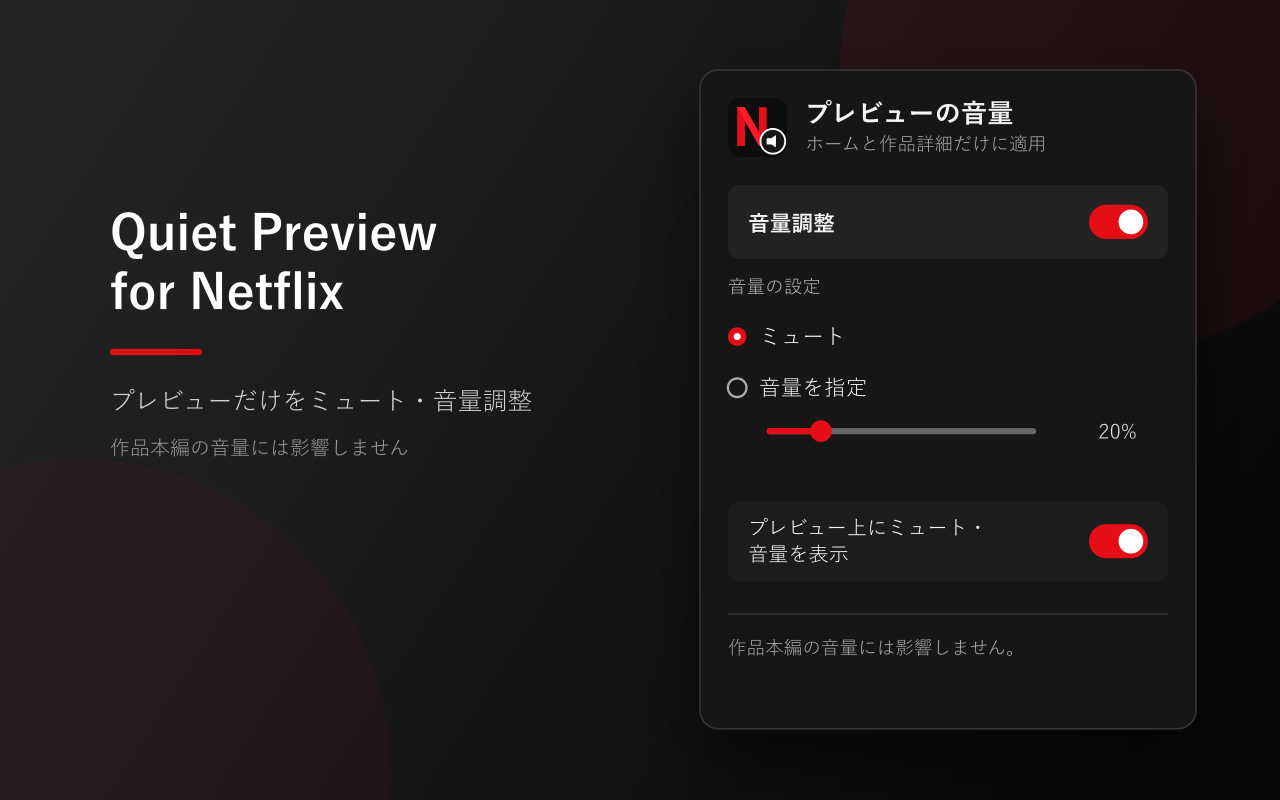
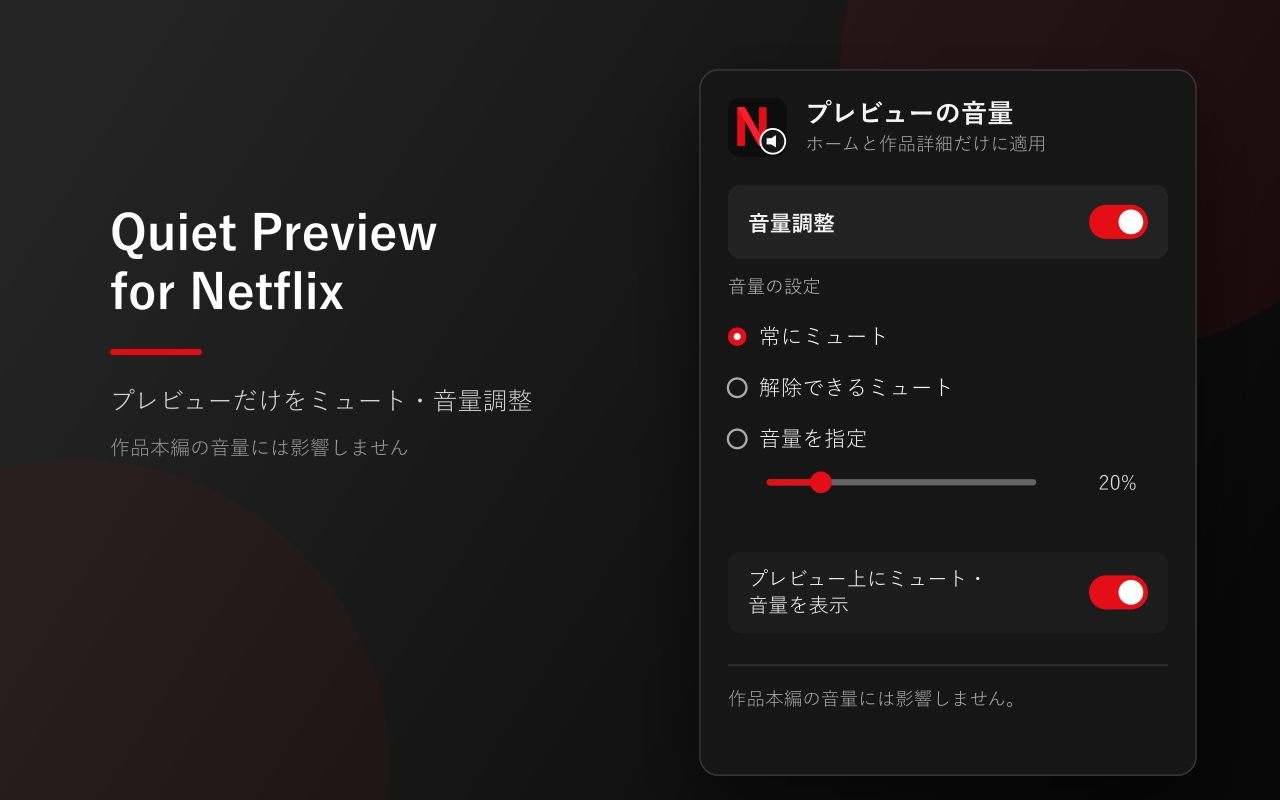
Add initial-only mute mode

diff --git a/content.js b/content.js
@@ -36,6 +36,7 @@
   ].join(",");
   const originals = new Map();
   const pendingMediaEnforcement = new WeakSet();
+  const initialMuteReleased = new WeakSet();
   let settings = { ...DEFAULT_SETTINGS };
   let observer;
   let scheduled = false;
@@ -68,6 +69,10 @@
     }
   }
 
+  function normalizeMode(mode) {
+    return mode === "volume" || mode === "initialMute" ? mode : "mute";
+  }
+
   function enforce(video) {
     if (!settings.enabled || !isTargetVideo(video)) {
       restore(video);
@@ -77,6 +82,11 @@
     remember(video);
     if (settings.mode === "mute") {
       if (!video.muted) video.muted = true;
+      return;
+    }
+
+    if (settings.mode === "initialMute") {
+      if (!initialMuteReleased.has(video) && !video.muted) video.muted = true;
       return;
     }
 
@@ -94,6 +104,7 @@
     // Remove tracking first so a volumechange event caused by restoration
     // cannot immediately re-apply the extension setting.
     originals.delete(video);
+    initialMuteReleased.delete(video);
     video.muted = original.muted;
     video.volume = original.volume;
   }
@@ -247,14 +258,23 @@
         : target.rect.bottom - 62;
     const roundedVolume = Math.round(settings.volume);
     const speakerIcon = roundedVolume === 0 ? "🔇" : roundedVolume < 50 ? "🔉" : "🔊";
-    const label = settings.mode === "mute"
-      ? "🔇 ミュート"
-      : `${speakerIcon} ${roundedVolume}%`;
+    let label;
+    let title;
+    if (settings.mode === "mute") {
+      label = "🔇 常にミュート";
+      title = "拡張機能により常にミュート中";
+    } else if (settings.mode === "initialMute") {
+      label = target.video.muted ? "🔇 解除可能" : "🔊 解除済み";
+      title = target.video.muted
+        ? "Netflixの音声ボタンで解除できます"
+        : "Netflixの音声ボタンでミュート解除済み";
+    } else {
+      label = `${speakerIcon} ${roundedVolume}%`;
+      title = `拡張機能により音量を${roundedVolume}%に固定中`;
+    }
 
     indicatorBadge.querySelector(".label").textContent = label;
-    indicatorBadge.title = settings.mode === "mute"
-      ? "拡張機能によりミュート固定中"
-      : `拡張機能により音量を${roundedVolume}%に固定中`;
+    indicatorBadge.title = title;
     indicatorBadge.style.left = `${Math.max(8, left)}px`;
     indicatorBadge.style.top = `${Math.max(16, top)}px`;
     indicatorBadge.style.display = "flex";
@@ -322,14 +342,37 @@
     requestAnimationFrame(() => {
       pendingMediaEnforcement.delete(video);
       enforce(video);
+      scheduleIndicatorUpdate();
     });
+  }
+
+  function handleAudioButtonClick(event) {
+    if (!settings.enabled || settings.mode !== "initialMute") return;
+
+    const clicked = event.target;
+    if (!clicked || typeof clicked.closest !== "function") return;
+    const button = clicked.closest(AUDIO_BUTTON_SELECTOR);
+    if (!button) return;
+
+    const scope = button.closest(
+      ".previewModal--container,[role='dialog'],.billboard-row,.billboard,[data-uia*='billboard'],[class*='billboard']"
+    ) || button.parentElement;
+    if (!scope || typeof scope.querySelectorAll !== "function") return;
+
+    for (const video of scope.querySelectorAll("video")) {
+      if (isTargetVideo(video)) initialMuteReleased.add(video);
+    }
+
+    // Netflix changes the media state in its own click handler, which runs
+    // after this capture listener. Refresh the badge once that change lands.
+    requestAnimationFrame(scheduleIndicatorUpdate);
   }
 
   async function loadSettings() {
     const stored = await chrome.storage.sync.get(DEFAULT_SETTINGS);
     settings = {
       enabled: Boolean(stored.enabled),
-      mode: stored.mode === "volume" ? "volume" : "mute",
+      mode: normalizeMode(stored.mode),
       volume: Number.isFinite(Number(stored.volume))
         ? Math.min(100, Math.max(0, Number(stored.volume)))
         : DEFAULT_SETTINGS.volume,
@@ -352,6 +395,7 @@
     document.addEventListener("play", handleMediaEvent, true);
     document.addEventListener("loadedmetadata", handleMediaEvent, true);
     document.addEventListener("volumechange", handleMediaEvent, true);
+    document.addEventListener("click", handleAudioButtonClick, true);
 
     window.addEventListener("resize", scheduleIndicatorUpdate, { passive: true });
     window.addEventListener("scroll", scheduleIndicatorUpdate, { passive: true, capture: true });
@@ -369,7 +413,7 @@
       if (area !== "sync") return;
 
       if (changes.enabled) settings.enabled = Boolean(changes.enabled.newValue);
-      if (changes.mode) settings.mode = changes.mode.newValue === "volume" ? "volume" : "mute";
+      if (changes.mode) settings.mode = normalizeMode(changes.mode.newValue);
       if (changes.volume) {
         settings.volume = Math.min(100, Math.max(0, Number(changes.volume.newValue) || 0));
       }

diff --git a/test/content.test.js b/test/content.test.js
@@ -224,7 +224,7 @@ test("jbv dialog fallback works if Netflix renames the preview classes", async (
   assert.equal(harness.detailsPreview.muted, true);
 });
 
-test("Netflix cannot overwrite mute after its native audio button event", async () => {
+test("always mute cannot be overwritten by Netflix's native audio button", async () => {
   const harness = createHarness({}, { details: true });
   await harness.settle();
   assert.equal(harness.detailsPreview.muted, true);
@@ -238,6 +238,34 @@ test("Netflix cannot overwrite mute after its native audio button event", async 
   assert.equal(harness.detailsPreview.muted, true);
 });
 
+test("initial mute allows Netflix's native audio button to enable sound", async () => {
+  const harness = createHarness({ mode: "initialMute" }, { details: true });
+  await harness.settle();
+  assert.equal(harness.detailsPreview.muted, true);
+
+  const previewScope = {
+    querySelectorAll(selector) {
+      return selector === "video" ? [harness.detailsPreview] : [];
+    }
+  };
+  const audioButton = {
+    closest(selector) {
+      if (selector.includes("button[data-uia='control-audio']")) return this;
+      if (selector.includes(".previewModal--container")) return previewScope;
+      return null;
+    }
+  };
+
+  // Capture listener marks this preview as user-controlled before Netflix's
+  // own handler unmutes it and emits volumechange.
+  harness.listeners.click({ target: audioButton });
+  harness.detailsPreview.muted = false;
+  harness.listeners.volumechange({ target: harness.detailsPreview });
+  harness.flushAnimationFrames();
+
+  assert.equal(harness.detailsPreview.muted, false);
+});
+
 test("shows an extension-owned status badge for the controlled preview", async () => {
   const harness = createHarness({}, { ui: true });
   await harness.settle();
@@ -245,9 +273,35 @@ test("shows an extension-owned status badge for the controlled preview", async (
   const badge = harness.createdElements.find((element) => element.className === "badge");
   assert.ok(badge);
   assert.equal(badge.innerHTML, '<span class="label"></span>');
-  assert.equal(badge.label.textContent, "🔇 ミュート");
+  assert.equal(badge.label.textContent, "🔇 常にミュート");
   assert.equal(badge.style.display, "flex");
-  assert.equal(badge.title, "拡張機能によりミュート固定中");
+  assert.equal(badge.title, "拡張機能により常にミュート中");
+});
+
+test("initial mute badge reflects when the native button releases mute", async () => {
+  const harness = createHarness({ mode: "initialMute" }, { details: true, ui: true });
+  await harness.settle();
+  const badge = harness.createdElements.find((element) => element.className === "badge");
+  assert.equal(badge.label.textContent, "🔇 解除可能");
+
+  const previewScope = {
+    querySelectorAll(selector) {
+      return selector === "video" ? [harness.detailsPreview] : [];
+    }
+  };
+  const audioButton = {
+    closest(selector) {
+      if (selector.includes("button[data-uia='control-audio']")) return this;
+      if (selector.includes(".previewModal--container")) return previewScope;
+      return null;
+    }
+  };
+  harness.listeners.click({ target: audioButton });
+  harness.detailsPreview.muted = false;
+  harness.listeners.volumechange({ target: harness.detailsPreview });
+  harness.flushAnimationFrames();
+
+  assert.equal(badge.label.textContent, "🔊 解除済み");
 });
 
 test("shows a speaker icon with the selected volume percentage", async () => {

diff --git a/popup.js b/popup.js
@@ -21,6 +21,10 @@
     return modeInputs.find((input) => input.checked)?.value || "mute";
   }
 
+  function normalizeMode(mode) {
+    return mode === "volume" || mode === "initialMute" ? mode : "mute";
+  }
+
   function updateUi() {
     controls.disabled = !enabled.checked;
     volume.disabled = !enabled.checked || selectedMode() !== "volume";
@@ -62,7 +66,7 @@
     enabled.checked = Boolean(stored.enabled);
     showIndicator.checked = stored.showIndicator !== false;
     volume.value = String(Math.min(100, Math.max(0, Number(stored.volume) || 0)));
-    const mode = stored.mode === "volume" ? "volume" : "mute";
+    const mode = normalizeMode(stored.mode);
     document.querySelector(`input[name="mode"][value="${mode}"]`).checked = true;
     updateUi();
   });

diff --git a/popup.html b/popup.html
@@ -25,7 +25,11 @@
         <legend>音量の設定</legend>
         <label class="choice">
           <input type="radio" name="mode" value="mute">
-          <span>ミュート</span>
+          <span>常にミュート</span>
+        </label>
+        <label class="choice">
+          <input type="radio" name="mode" value="initialMute">
+          <span>解除できるミュート</span>
         </label>
         <label class="choice volume-choice">
           <input type="radio" name="mode" value="volume">

diff --git a/README.md b/README.md
@@ -1,6 +1,6 @@
 # Quiet Preview for Netflix
 
-Netflixのホーム画面上部で再生されるおすすめ作品（ビルボード）と、作品詳細を開いたときのプレビューだけを、ミュートまたは指定音量にするChrome拡張です。「再生」ボタンから開く視聴プレイヤー（`/watch/...`）には設定を適用しません。
+Netflixのホーム画面上部で再生されるおすすめ作品（ビルボード）と、作品詳細を開いたときのプレビューだけを、ミュートまたは指定音量にするChrome拡張です。「再生」ボタンから開く視聴プレイヤー（`/watch/...`）には設定を適用しません。ミュートを維持するか、Netflix標準の音声ボタンで解除できるようにするかを選べます。
 
 対象プレビューのNetflix標準音声ボタン付近には、拡張機能が制御中であることを示す「🔇 ミュート」または「🔉 20%」のバッジを表示します。音量指定時のスピーカーアイコンは、0%で「🔇」、1〜49%で「🔉」、50%以上で「🔊」になります。マウスを重ねたときに開く小さな作品カードでは、Netflixのボタン再描画による位置ずれを防ぐため動画右下の一定位置に表示します。Netflixのボタン自体は変更しないため、表示の位置検出に失敗しても音量制御には影響しません。
 
@@ -17,7 +17,8 @@ Netflixをすでに開いている場合は、拡張機能の読み込み後にN
 
 Chromeのツールバーにある拡張機能のアイコンを開き、次のいずれかを選びます。
 
-- 「ミュート」: プレビューの音を消す（初期設定）
+- 「常にミュート」: Netflix標準の音声ボタンを押してもミュートを維持する（初期設定）
+- 「解除できるミュート」: はじめはミュートし、Netflix標準の音声ボタンで解除できる
 - 「音量を指定」: プレビューだけを0〜100%の指定音量にする
 - 「プレビュー上にミュート・音量を表示」: 状態表示だけをON/OFFにする（音量制御には影響しません）
 - 「音量調整」をオフ: 拡張機能が変更前の音量設定を復元する
